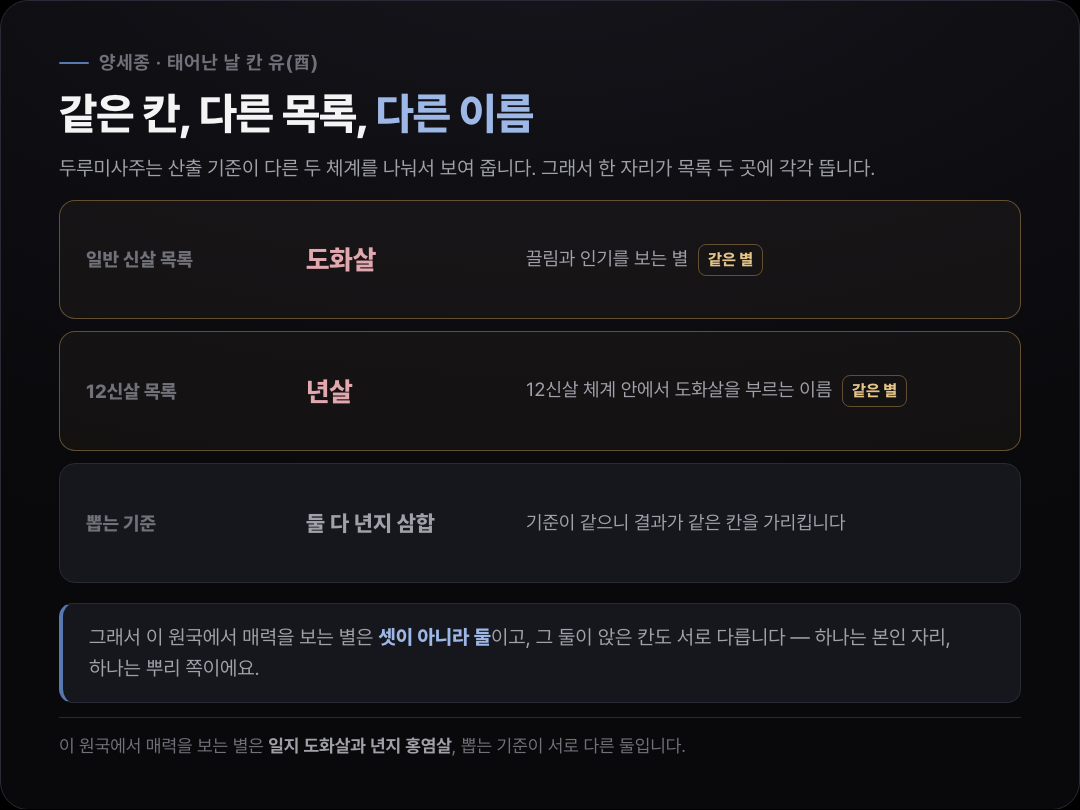
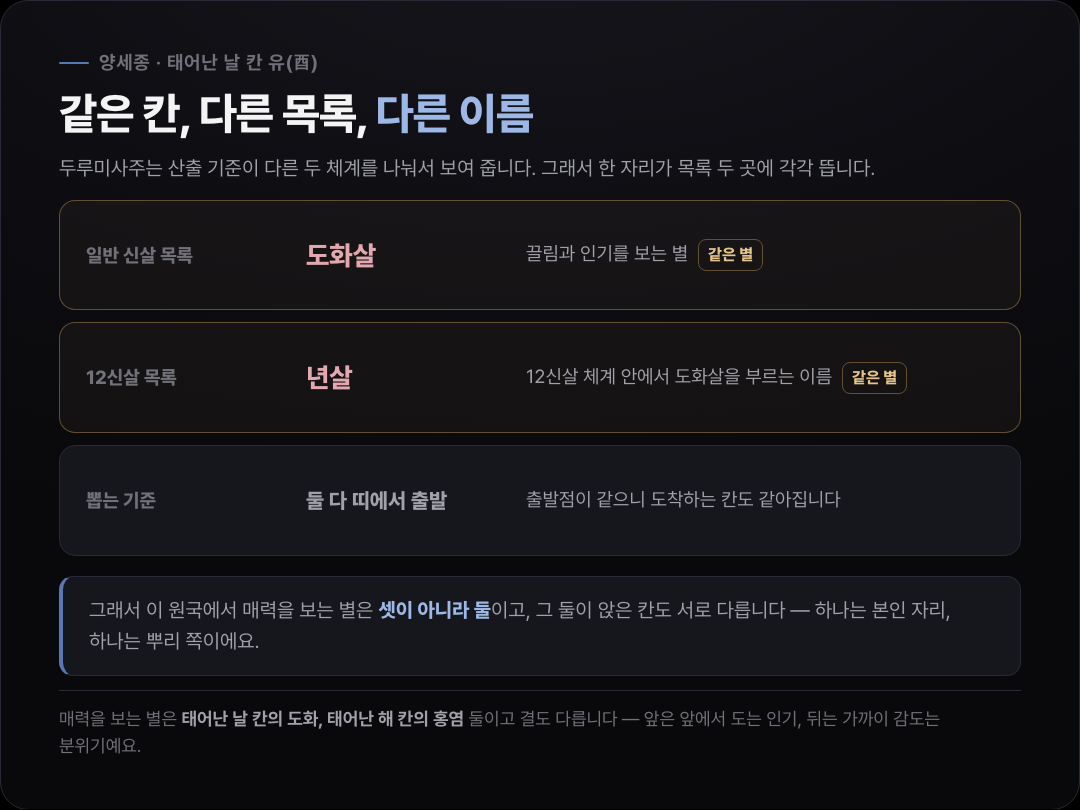
fix(stories): 3차 재검 반영 + 카드 동기화 검사기 신설
3차 판정: RED 3 · AMBER 2. **사실층은 이번에 전부 통과했다** — 5편 모두 엔진 대조
불일치 0, 사전 귀속 조작 0, 새 수치도 전부 재검산 통과(오히려 보수적). 남은 건
전부 구조·표현이다.

## 카드 동기화를 기계로 막았다 — 같은 사고가 세 번 났다

`scripts/card-sync-check.mts` 신설. 카드 HTML 문구를 뽑아 대응 글 데이터에 닻이
있는지 보고, 없으면 사람이 확인할 목록으로 띄운다. 자동 판정이 아니라 검토 목록이다.

세 번의 실측 사고: ①yuyoungwoo-2 가 본문 수정 후에도 "네 항목 중"을 유지 ②jangseong-sal-2
푸터가 걷어낸 논지를 그대로 구움 ③v-bts-2 부제가 본문에서 폐기한 "재능의 별"을 유지.
붙이자마자 ③을 포함해 실드리프트 3장을 잡았다.

## [상] 수정

- **유영우 — 축을 옮긴다면서 헤딩만 바꿨다.** intro 논제 문장이 여전히 옛 축("짚어 볼
  자리는 태어난 달 칸")을 로드맵으로 가리켰고, excerpt가 약속한 "둘을 같이 놓기"가
  본문에 없었다. intro를 새 축으로 다시 쓰고, 마무리에서 일지 장성살과 금 0을 **실제로
  겹쳐 읽는 문단**을 넣었다. 헤딩도 옛 축 잔재를 걷었다.
- **양세종 §4 가 v-bts 어휘로 수렴했다**("아예 없는 게 아니라"·"속에 접혀 있는"·"두
  글자가 아직 안 들어왔"). 2차 수정이 직접 만든 수렴이고 하필 이 글 차별점 절이었다.
  이 원국 고유 배치(개수판 vs 실물)로 다시 썼다.
- **뷔 FAQ1 이 양세종 쪽으로 더 수렴했다.** 3차 수정이 "자리"→"코드이고"로 바꿔
  양쪽을 같게 만들었다. 이 글만 다른 진입(위아래 조합 → 형상)으로 교체. intro 도
  목록 밖 형제 `gonghyojin` 과 겹쳐 다시 썼다.
- **뷔 카드 2장 미동기화** — 위 검사기가 잡은 것. 부제·note·desc 전부 본문에 맞춤.
- **육해살 fig2 caption 이 FAQ와 모순**("넓어야 두 칸" vs "상한이 세 칸"). 2차에서
  조건부 문장을 단정으로 바꾼 결과다. 조건 복원.

## [중] 수정

- 유영우: "헤딩"이라는 편집실 용어가 독자 문장에 노출(2차 신규) / 일지 12운성이
  `병`인데 자기 규칙("이름≠세기")을 간판 칸에는 적용 안 함 → 명시 / **12신살 산출
  원리 오진술** — "태어난 해와의 거리"가 아니라 "삼합 묶음 안의 몇 번째 칸"이다
  (년지 子와 申은 같은 묶음이라 배정이 같은데 거리는 다르다). 본문+fig2 동시 수정 /
  `related` 에 같은 임오·기묘 형제 추가.
- 양세종: 지장간 인과 압축 → "지지는 주인 글자 하나로만 센다"로 규칙을 제자리에 /
  "바깥의 요구" 미역추적 → 사전 어휘로 / 도화·홍염의 결 차이 평탄화 해소 /
  "끌림·끌림·통솔" 기둥 순서 교정.
[…]

diff --git a/lib/stories/data/yuyoungwoo.ts b/lib/stories/data/yuyoungwoo.ts
@@ -7,7 +7,7 @@ export const yuYoungwoo: Story = {
   excerpt:
     "1995년 6월 17일 기묘(己卯)일주. 본인 자리에 판을 지휘하는 별이 앉아 있는데, 정작 만들어 낸 것을 거두어 굳히는 오행은 겉에 한 자리도 없어요. 그 둘을 같이 놓고 읽어 봅니다.",
   intro:
-    "만담은 혼자 웃기는 일이 아닙니다. 둘이 주고받는 박자를 미리 다 짜 놓고, 무대 위에서는 그 판을 놓치지 않게 끌고 가야 하는 일이에요. 유영우는 메타코미디 소속 개그맨이고, 만담 콤비 유스데스크로 무대와 온라인 양쪽에서 활동하고 있습니다.\n\n판을 짜고 그 판을 지휘하는 일. 원국으로 옮겨 보면 이 대목이 꽤 또렷하게 나옵니다.\n\n1995년 6월 17일 양력생이고 일주가 **기묘(己卯)**예요. 위 칸에 [기토](/dict/cheongan/gi), 아래 칸에 [묘목](/dict/jiji/myo)이 섭니다. 태어난 시각은 알려진 적이 없어요. 그래서 이 글이 다루는 기둥은 셋입니다.\n\n짚어 볼 자리는 **태어난 달 칸**입니다. 이 원국에서 힘이 가장 강하게 잡히는 칸인데, 거기 붙은 12신살 이름이 하필 육해살이거든요.",
+    "만담은 혼자 웃기는 일이 아닙니다. 둘이 주고받는 박자를 미리 다 짜 놓고, 무대 위에서는 그 판을 놓치지 않게 끌고 가야 하는 일이에요. 유영우는 메타코미디 소속 개그맨이고, 만담 콤비 유스데스크로 무대와 온라인 양쪽에서 활동하고 있습니다.\n\n판을 짜고 그 판을 지휘하는 일. 원국으로 옮겨 보면 이 대목이 꽤 또렷하게 나옵니다.\n\n1995년 6월 17일 양력생이고 일주가 **기묘(己卯)**예요. 위 글자가 [기토](/dict/cheongan/gi), 아래 글자가 [묘목](/dict/jiji/myo)이에요. 출생 시각은 공개된 적이 없어 이 글이 펼치는 기둥은 셋입니다.\n\n짚어 볼 것은 두 가지예요. 본인 자리에 앉은 별 하나, 그리고 여섯 글자 어디에도 안 나온 오행 하나입니다.",
   sections: [
     {
       heading: "본인 자리에 통솔의 별이 앉아 있어요",
@@ -18,7 +18,7 @@ export const yuYoungwoo: Story = {
         },
         {
           kind: "p",
-          text: "장성살은 장수의 별이에요. 사전은 통솔·책임·중심을 상징하는 자리로 적고, 자기주장이 분명하며 판의 가운데 서는 것을 편해하는 결로 봅니다. 그게 태어난 날 칸, 그러니까 본인 자리에 앉아 있어요.",
+          text: "장성살은 장수의 별이에요. 사전은 권력·통솔력·책임감을 상징하는 자리로 적고, 자기주장이 분명하며 리더 자리를 선호하는 결로 봅니다. 그게 태어난 날 칸, 그러니까 본인 자리에 앉아 있어요.\n\n다만 같은 칸을 세기로 재면 얘기가 다릅니다. 열두 단계로 매기는 눈금에서 이 칸은 힘이 빠지는 쪽이에요. 이름이 세다고 칸까지 센 게 아니라는 뜻입니다.",
         },
         {
           kind: "p",
@@ -46,7 +46,7 @@ export const yuYoungwoo: Story = {
         },
         {
           kind: "p",
-          text: "그런데 이 조합은 나무가 흙을 딛고 선 게 아니라 **나무가 흙을 파고드는** 구조입니다. 기토 입장에서 묘목은 편관(偏官), 그러니까 책임과 압박, 자기 단련의 별이에요. 사전은 이 배치를 자기 단련이 몸에 밴 기질로 읽어요.",
+          text: "그런데 이 조합은 나무가 흙을 딛고 선 게 아니라 **나무가 흙을 파고드는** 구조입니다. 기토 입장에서 묘목은 편관(偏官)입니다. 사전이 책임·압박·자기 단련으로 묶는 별이에요. 사전은 이 배치를 자기 단련이 몸에 밴 기질로 읽어요.",
         },
         {
           kind: "p",
@@ -90,7 +90,7 @@ export const yuYoungwoo: Story = {
         {
           kind: "callout",
           tone: "warn",
-          text: "이름이 험하다고 그 칸을 약한 칸으로 읽으면 정반대가 됩니다. 12신살 이름은 그 자리가 태어난 해와 어떤 거리에 있는지를 가리키는 것이지 힘의 크기를 재는 눈금이 아니에요. 세기는 12운성이 따로 잽니다.",
+          text: "이름이 험하다고 그 칸을 약한 칸으로 읽으면 정반대가 됩니다. 12신살 이름은 내 띠가 속한 삼합 묶음 안에서 그 글자가 몇 번째 칸인지를 가리키는 것이지, 힘의 크기를 재는 눈금이 아니에요. 세기는 12운성이 따로 잽니다.",
         },
         {
           kind: "image",
@@ -101,11 +101,11 @@ export const yuYoungwoo: Story = {
       ],
     },
     {
-      heading: "받쳐 주는 손이 둘, 밀어내는 손이 넷",
+      heading: "쇠 자리가 통째로 비었습니다",
       blocks: [
         {
           kind: "p",
-          text: "이 원국의 강약은 신약 쪽으로 잡힙니다. 시각이 비어 판정이 도는 항목은 셋인데, 그중 확보한 것이 방금 본 태어난 달 한 곳이에요.",
+          text: "이 원국의 강약은 [신약](/dict/gangyak/sinyak) 쪽으로 잡힙니다. 시각이 비어 판정이 도는 항목은 셋인데, 그중 확보한 것이 방금 본 태어난 달 한 곳이에요.",
         },
         {
           kind: "p",
@@ -113,7 +113,7 @@ export const yuYoungwoo: Story = {
         },
         {
           kind: "p",
-          text: "기토에게 나무는 눌러 오는 쪽, 물은 다뤄야 할 쪽입니다. 여섯 중 넷이 그쪽이에요. 남은 둘 중 하나는 기토를 낳아 주는 불이고, 나머지 하나는 기토 자신입니다. 그러니 헤딩의 둘 가운데 하나는 본인이 스스로 세는 몫이에요.",
+          text: "기토에게 나무는 눌러 오는 쪽, 물은 다뤄야 할 쪽입니다. 여섯 중 넷이 그쪽이에요. 남은 둘 중 하나는 기토를 낳아 주는 불이고, 나머지 하나는 기토 자신입니다. 그러니 받쳐 주는 둘 가운데 하나는 본인이 스스로 세는 몫이에요.",
         },
         {
           kind: "p",
@@ -139,7 +139,7 @@ export const yuYoungwoo: Story = {
         },
         {
           kind: "p",
-          text: "그러니 세 칸의 이름을 한 줄로 놓으면 지살·육해살·장성살이 됩니다. 세 칸이 전부 다른 이름을 받았어요.",
+          text: "그러니 아래 칸 셋이 전부 다른 이름을 받았습니다.\n\n여기서 앞의 두 가지를 겹쳐 놓아 볼게요. 본인 자리에는 판을 지휘하는 별이 앉았는데, 지휘한 결과를 거두어 형태로 굳히는 오행은 겉에 없습니다. 짜고 끌고 가는 쪽은 갖췄고 마무리해 쟁여 두는 쪽이 표면에 안 보이는 배치예요. 만담처럼 그 자리에서 소모되는 일과는 결이 맞고, 쌓아 두는 일은 따로 품이 드는 구성입니다.",
         },
         {
           kind: "checklist",
@@ -154,7 +154,7 @@ export const yuYoungwoo: Story = {
         },
         {
           kind: "p",
-          text: "본인의 원국도 같은 방식으로 읽힙니다. 한 칸에 붙은 이름 하나가 그 칸의 전부를 말해 주지는 않아요.",
+          text: "본인의 원국도 같은 순서로 보시면 됩니다. 갖춘 쪽과 빠진 쪽을 따로 세지 말고 한 번에 겹쳐 놓아 보세요.",
         },
       ],
     },
@@ -166,15 +166,15 @@ export const yuYoungwoo: Story = {
           items: [
             {
               q: "유영우는 무슨 일주인가요?",
-              a: "기묘(己卯)일주입니다. 육십갑자로는 열여섯 번째 자리예요. 1995년 6월 17일 양력생이라 을해년 임오월 기묘일로 서고, 태어난 시각은 알려진 적이 없어 기둥 하나가 비어 있습니다. 위 칸은 논밭의 흙, 아래 칸은 새벽의 여린 나무라 흙 위에 풀이 돋은 그림으로 읽어요.",
+              a: "기묘(己卯)예요. 육십갑자로는 열여섯 번째 자리입니다. 1995년 6월 17일 양력생이라 을해년 임오월 기묘일로 서고, 태어난 시각은 알려진 적이 없어 기둥 하나가 비어 있습니다. 위 칸은 논밭의 흙, 아래 칸은 새벽의 여린 나무라 흙 위에 풀이 돋은 그림으로 읽어요.",
             },
             {
-              q: "육해살이 있으면 안 좋은 사주인가요?",
-              a: "그런 뜻이 아닙니다. 12신살은 띠를 기준점으로 삼아 네 칸에 이름을 하나씩 나눠 주는 체계예요. 그러니 어느 칸에든 이름은 붙습니다 — 그 이름이 육해살로 나오는 사람도 있고 아예 안 나오는 사람도 있어요. 유영우의 경우 그 이름이 붙은 칸이 오히려 12운성으로는 힘이 강한 자리이고 강약 판정에서 확보된 유일한 자리이기도 합니다. 이름과 세기를 같은 잣대로 보면 방향이 어긋나요.",
+              q: "달 칸에 육해살이 붙었다는데 걱정해야 하나요?",
+              a: "그렇게 보지 않습니다. 12신살은 띠를 기준점으로 삼아 네 칸에 이름을 하나씩 나눠 주는 체계예요. 그러니 어느 칸에든 이름은 붙습니다 — 그 이름이 육해살로 나오는 사람도 있고 아예 안 나오는 사람도 있어요. 유영우의 경우 그 이름이 붙은 칸이 오히려 12운성으로는 힘이 강한 자리이고 강약 판정에서 확보된 유일한 자리이기도 합니다. 이름과 세기를 같은 잣대로 보면 방향이 어긋나요.",
             },
             {
               q: "천덕귀인이 태어난 해 칸에 붙었다는 게 무슨 뜻인가요?",
-              a: "이 별은 태어난 달의 지지를 기준점으로 삼아 자리를 정합니다. 유영우는 오(午)월생이고, 오월에 성립하는 천덕 자리가 해(亥)예요. 그런데 태어난 해의 아래 글자가 마침 해(亥)라서 그 칸이 천덕 자리가 됩니다. 이름은 귀인인데 붙는 자리가 천간이 아니라 지지인 경우예요. 같은 덕(德) 자를 쓰는 월덕귀인은 천간에 나와야 작용이 또렷하다고 사전이 따로 단서를 답니다."
+              a: "이 별은 태어난 달의 지지를 기준점으로 삼아 자리를 정합니다. 유영우는 오(午)월생이고, 오월에 성립하는 천덕 자리가 해(亥)예요. 그런데 태어난 해의 아래 글자가 마침 해(亥)라서 그 칸이 천덕 자리가 됩니다. 이름은 귀인인데 붙는 자리가 천간이 아니라 지지인 경우예요. 이름이 비슷한 월덕귀인은 사정이 반대예요. 사전이 그쪽은 지지에서 찾는 별이 아니라고 못 박습니다."
             },
             {
               q: "쇠가 겉에 없다는 게 어떤 뜻인가요?",
@@ -215,5 +215,5 @@ export const yuYoungwoo: Story = {
   },
   publishedAt: "2026-08-27",
   updatedAt: "2026-08-27",
-  related: ["jangseong-sal", "yukhae-sal"],
+  related: ["jangseong-sal", "yukhae-sal", "yoonkyungho"],
 };

diff --git a/lib/stories/data/yangsejong.ts b/lib/stories/data/yangsejong.ts
@@ -22,7 +22,7 @@ export const yangSejong: Story = {
         },
         {
           kind: "p",
-          text: "강약 판정도 그대로 따라갑니다. 이 원국은 [태강](/dict/gangyak/taegang)으로 잡혀요. 네 항목 중 태어난 시각을 뺀 세 곳을 전부 확보했고, 일간을 밀어내는 쪽으로 잡히는 항목은 **하나도 없습니다.**",
+          text: "강약 판정도 그대로 따라갑니다. 이 원국은 [태강](/dict/gangyak/taegang)으로 잡혀요. 네 항목 중 태어난 시각을 뺀 세 곳을 전부 확보했고, 일간을 밀어내는 쪽으로 잡히는 항목이 **0개**예요.",
         },
         {
           kind: "table",
@@ -60,7 +60,7 @@ export const yangSejong: Story = {
         {
           kind: "callout",
           tone: "tip",
-          text: "인물 하나를 길게 붙들고 가는 직업과 어긋나지 않는 구조예요. 물론 글자가 사람을 설명하는 게 아니라, 지나온 이력 옆에 여섯 글자를 놓아 본 것뿐입니다.",
+          text: "인물 하나를 길게 붙들고 가는 직업과 어긋나지 않는 구조예요. 물론 글자가 사람을 설명하는 게 아니라, 지나온 자취 곁에 여섯 글자를 얹어 본 것뿐이에요.",
         },
       ],
     },
@@ -73,7 +73,7 @@ export const yangSejong: Story = {
         },
         {
           kind: "p",
-          text: "[도화살](/dict/sinsal/dohwa)과 [홍염살](/dict/sinsal/hongryeom) 둘 다 걸려요. 끌림을 보는 별이 두 개인 셈인데, 출발점이 서로 다릅니다. 도화는 띠에서 시작하고 홍염은 일간에서 시작해요. 출발점이 다르니 도착하는 칸도 갈립니다 — 도화가 태어난 날, 홍염이 태어난 해입니다.",
+          text: "[도화살](/dict/sinsal/dohwa)과 [홍염살](/dict/sinsal/hongryeom) 둘 다 걸려요. 끌림을 보는 별이 두 개인 셈인데, 출발점도 결도 다릅니다. 도화는 띠에서 시작하고 사람들 앞에서 도는 인기 쪽이에요. 홍염은 일간에서 시작하고 가까이에서 감도는 분위기 쪽입니다. 출발점이 다르니 도착하는 칸도 갈려요 — 홍염이 태어난 해, 도화가 태어난 날입니다.",
         },
         {
           kind: "p",
@@ -86,12 +86,12 @@ export const yangSejong: Story = {
         },
         {
           kind: "p",
-          text: "남은 한 칸, 태어난 달 쪽은 [장성살](/dict/sipisinsal/jangseongsal)입니다. 사전이 권력·통솔력·책임감으로 적는 별이에요. 아래 칸 셋만 놓고 보면 끌림·끌림·통솔로 갈립니다. 위 칸 쪽에 걸리는 별은 따로 있고, 그건 뒤에서 볼게요.\n\n이 장성살은 두 목록 **양쪽에 같은 이름 그대로** 뜹니다. 뽑는 기준이 둘 다 태어난 해의 지지라 결과가 겹치거든요. 이름까지 같아서 개수로 세기가 제일 쉬운 자리인데, 역시 한 별입니다. 12신살 쪽 태어난 해 칸에는 또 다른 이름인 [지살](/dict/sipisinsal/jisal)이 붙고요.",
+          text: "남은 한 칸, 태어난 달 쪽은 [장성살](/dict/sipisinsal/jangseongsal)입니다. 사전이 권력·통솔력·책임감으로 적는 별이에요. 아래 칸을 년·월·일 순으로 읽으면 끌림·통솔·끌림이 됩니다. 위 칸 쪽에 걸리는 별은 따로 있고, 그건 뒤에서 볼게요.\n\n이 장성살은 두 목록 **양쪽에 같은 이름 그대로** 뜹니다. 뽑는 기준이 둘 다 태어난 해의 지지라 결과가 겹치거든요. 이름까지 같아서 개수로 세기가 제일 쉬운 자리인데, 역시 한 별입니다. 12신살 쪽 태어난 해 칸에는 또 다른 이름인 [지살](/dict/sipisinsal/jisal)이 붙고요.",
         },
         {
           kind: "image",
           src: "/stories/figures/yangsejong-2.png",
-          alt: "태어난 날 칸의 유금 한 자리가 일반 신살에서는 도화살로, 12신살에서는 년살로 각각 다르게 호명되는 것을 두 목록으로 나눠 보여 주는 카드",
+          alt: "태어난 날 칸의 유금 한 자리에 일반 신살의 도화살과 12신살의 년살이라는 두 이름이 각각 붙는 것을 산출 기준별로 갈라 정리한 카드",
           caption: "같은 칸, 다른 목록, 다른 이름. 별이 둘로 늘어난 게 아닙니다.",
         },
       ],
@@ -105,15 +105,15 @@ export const yangSejong: Story = {
         },
         {
           kind: "p",
-          text: "명리에서 일간을 눌러 세우는 자리는 규범·책임·바깥의 요구를 상징합니다. 겉으로 드러난 여섯 글자에는 그 흙이 한 자리도 없어요.\n\n그런데 아래 칸 속을 열어 보면 얘기가 달라집니다. 지지에는 겉 글자 말고도 **속에 접혀 있는 천간**이 있는데, 태어난 해 칸 신(申) 안에 경금·임수와 함께 **무토(戊)**가 들어 있어요. 계수에게 무토는 바로 그 눌러 세우는 자리입니다.",
+          text: "명리에서 일간을 눌러 세우는 자리는 질서와 명예, 책임감 쪽을 상징합니다. 겉으로 드러난 여섯 글자에는 그 흙이 한 자리도 없어요.\n\n그런데 아래 칸 속을 열어 보면 얘기가 달라집니다. 지지에는 겉 글자 말고도 **속에 접혀 있는 천간**이 있는데, 태어난 해 칸 신(申) 안에 경금·임수와 함께 **무토(戊)**가 들어 있어요. 계수에게 무토는 바로 그 눌러 세우는 자리입니다.",
         },
         {
           kind: "p",
-          text: "그러니 **아예 없는 게 아니라 겉에 안 나온** 구조예요. 다만 무토는 신(申) 속에서도 가장 옅게 든 글자라, 오행 개수를 셀 때는 흙 0으로 잡힙니다. 두루미사주가 보태면 좋을 오행으로 억부 쪽에서 흙을, 겨울생이라 조후 쪽에서 불을 지목하는 것도 그래서예요.\n\n속에 있다는 것과 쓰이고 있다는 건 다른 얘기입니다. 이 원국에서 눌러 세우는 자리는 있긴 한데 아주 얕게 있어요.",
+          text: "그런데 오행 개수는 지지를 그 지지의 **주인 글자 하나로만** 셉니다. 무토는 신(申)의 주인이 아니라 셋 중 가장 옅게 든 글자라, 개수판에서는 흙이 0으로 잡혀요.\n\n그래서 이 원국은 눌러 세우는 자리가 **장부에는 안 잡히는데 실물로는 있는** 상태입니다. 두루미사주가 보태면 좋을 오행으로 흙을 지목하는 것도 개수판을 보고 하는 판단이고요. 겨울생이라 온도를 올리는 쪽으로 불도 함께 지목합니다.",
         },
         {
           kind: "p",
-          text: "덧붙이면 태어난 시각 쪽 두 글자가 아직 안 들어왔어요. 거기서 나무나 불이나 흙이 겉으로 나오면 이 그림은 통째로 다시 그려집니다.",
+          text: "물론 시각 칸이 채워지면 얘기가 달라져요. 거기서 나무나 불이나 흙이 주인 글자로 나오면 개수판 자체가 바뀝니다.",
         },
       ],
     },
@@ -153,7 +153,7 @@ export const yangSejong: Story = {
           items: [
             {
               q: "양세종은 무슨 일주인가요?",
-              a: "계유(癸酉)일주입니다. 임신년 임자월 계유일 — 1992년 12월 23일 양력생이에요. 태어난 시각은 알려진 게 없어 기둥 하나가 통째로 빕니다. 육십갑자로는 열 번째 코드이고, 맑은 샘물이 벼려 놓은 쇠 위를 흐르는 그림에 빗대는 조합입니다.",
+              a: "계유(癸酉)일주입니다. 임신년 임자월 계유일 — 1992년 12월 23일 양력생입니다. 출생 시각이 안 알려져 기둥 하나가 통째로 비어요. 육십갑자로는 열 번째 자리이고, 맑은 샘물이 벼려 놓은 쇠 위를 흐르는 그림에 빗대는 조합입니다.",
             },
             {
               q: "태강이면 좋은 건가요?",
@@ -161,7 +161,7 @@ export const yangSejong: Story = {
             },
             {
               q: "도화살과 년살이 둘 다 있다는 건가요?",
-              a: "하나입니다. 사전은 12신살의 년살과 일반 신살의 도화살을 같은 별로 적어요. 두 목록 모두 띠를 출발점으로 삼으니 도착하는 칸이 같아집니다. 두루미사주가 두 체계를 나눠 보여 주다 보니 목록 두 곳에 각각 뜨는 것뿐이에요. 두 줄을 더해서 세면 실제보다 많아 보입니다.",
+              a: "하나입니다. 사전은 12신살의 년살과 일반 신살의 도화살을 같은 별로 적어요. 두 목록 모두 띠를 출발점으로 삼으니 도착하는 칸이 같아집니다. 두루미사주가 산출 기준별로 갈라 보여 주다 보니 목록 두 곳에 각각 뜨는 것뿐이에요. 두 줄을 더해서 세면 실제보다 많아 보입니다.",
             },
             {
               q: "나무·불·흙이 없으면 그 기운이 없는 사람인가요?",

diff --git a/lib/stories/data/v-bts.ts b/lib/stories/data/v-bts.ts
@@ -7,7 +7,7 @@ export const vBts: Story = {
   excerpt:
     "1995년 12월 30일 을미(乙未)일주. 태어난 달 칸 하나에 매력의 별과 귀인의 별이 함께 앉고, 태어난 날 칸에는 안으로 깊어지는 별과 험한 이름이 겹칩니다. 겹친 칸을 어떻게 읽는지가 이 원국의 관건이에요.",
   intro:
-    "사주를 보다 보면 유난히 표시가 몰리는 칸이 나옵니다. 그 칸이 좋은 칸인지 나쁜 칸인지 묻고 싶어지는데, 실제로는 그 질문에 답이 잘 안 나와요.\n\n방탄소년단의 뷔가 딱 그런 원국입니다. 1995년 12월 30일 양력생이고 일주는 **을미(乙未)**예요. 위 칸에 [을목](/dict/cheongan/eul), 아래 칸에 [미토](/dict/jiji/mi)가 섭니다. 시각 쪽은 공개된 적이 없어서, 마지막 기둥은 비워 놓고 읽습니다.\n\n여기서 먼저 갈라 둘 게 있어요. 12신살은 **어느 칸에든 이름을 하나씩 줍니다.** 사전이 이 체계를 두고 어느 사주든 열두 지지 모두에 별이 부여된다고 적는 대로예요. 그러니 몰린다는 건 12신살 쪽 얘기가 아니라, 별마다 조건이 다른 **일반 신살 쪽에서 생기는 일**입니다.\n\n뷔의 원국에서는 그 몰림이 두 칸에 걸려요. 태어난 달 칸과 태어난 날 칸입니다. 한 칸에 이름이 여럿 앉으면 그 칸을 좋다 나쁘다로 접기가 어려워지고, 어느 이름이 어느 기준에서 나온 건지부터 갈라야 합니다.",
+    "사주를 보다 보면 유난히 표시가 몰리는 칸이 나옵니다. 그 칸이 좋은 칸인지 나쁜 칸인지 묻고 싶어지는데, 실제로는 그 질문에 답이 잘 안 나와요.\n\n방탄소년단의 뷔가 딱 그런 원국입니다. 1995년 12월 30일생, 일주는 **을미(乙未)** — [을목](/dict/cheongan/eul)이 위에 서고 [미토](/dict/jiji/mi)가 아래를 받칩니다. 출생 시각은 알려진 게 없어 마지막 기둥은 비워 두고 읽어요.\n\n여기서 먼저 갈라 둘 게 있어요. 12신살은 **어느 칸에든 이름을 하나씩 줍니다.** 사전이 이 체계를 두고 어느 사주든 열두 지지 모두에 별이 부여된다고 적는 대로예요. 그러니 몰린다는 건 12신살 쪽 얘기가 아니라, 별마다 조건이 다른 **일반 신살 쪽에서 생기는 일**입니다.\n\n뷔의 원국에서는 그 몰림이 두 칸에 걸려요. 태어난 달 칸과 태어난 날 칸입니다. 한 칸에 이름이 여럿 앉으면 그 칸을 좋다 나쁘다로 접기가 어려워지고, 어느 이름이 어느 기준에서 나온 건지부터 갈라야 합니다.",
   sections: [
     {
       heading: "달 칸 하나에 매력의 별과 귀인의 별이 같이 앉아요",
@@ -29,7 +29,7 @@ export const vBts: Story = {
         },
         {
           kind: "p",
-          text: "매력을 보는 별과 도움을 받는 별이 한 칸에 겹쳤어요. [천을귀인](/dict/sinsal/cheonyl-gwiin)은 조견표부터 다릅니다. 열 개 일간마다 정해진 지지가 따로 있고, 을목이면 자(子)와 신(申) 두 글자예요. 띠는 아예 안 봅니다. 그러니 두 별이 같은 칸에 앉은 건 서로 맞춘 게 아니라 우연이에요.",
+          text: "매력을 보는 별과 도움을 받는 별이 한 칸에 겹쳤어요. [천을귀인](/dict/sinsal/cheonyl-gwiin)은 조견표부터 다릅니다. 일간을 몇 갈래로 묶어 갈래마다 지지 두 글자를 배정하는데, 을목이 드는 갈래는 자(子)와 신(申)이에요. 띠는 아예 안 봅니다. 그러니 두 별이 같은 칸에 앉은 건 서로 맞춘 게 아니라 우연이에요.",
         },
         {
           kind: "callout",
@@ -45,7 +45,7 @@ export const vBts: Story = {
       ],
     },
     {
-      heading: "을미 — 들판에서 풀을 뜯는 양의 자리",
+      heading: "화초와 마른 흙이 위아래로 만나면",
       blocks: [
         {
           kind: "p",
@@ -75,7 +75,7 @@ export const vBts: Story = {
         },
         {
           kind: "p",
-          text: "이 칸은 [화개살](/dict/sinsal/hwagae)로 잡힙니다. 그런데 12신살 목록을 봐도 같은 이름이 또 있어요. 화개는 어느 목록에서든 띠를 출발점으로 삼는 별이라 두 계산이 같은 답에 도착하거든요. 달 칸의 도화가 그랬던 것과 같은 사정입니다.",
+          text: "이 칸은 [화개살](/dict/sinsal/hwagae)로 잡힙니다. 그런데 12신살 목록을 봐도 같은 이름이 또 있어요. 두 계산 다 띠에서 출발하니 뷔의 경우 같은 칸을 가리켰습니다. 다만 늘 겹치지는 않아요 — 일반 신살 쪽 계산은 띠 글자가 놓인 칸을 건너뛰기 때문에, 그 자리에만 있는 사람은 12신살 쪽에만 뜹니다.",
         },
         {
           kind: "p",
@@ -110,7 +110,7 @@ export const vBts: Story = {
         },
         {
           kind: "p",
-          text: "강약은 [중화신강](/dict/gangyak/junghwa-singang)입니다. 강약은 네 항목으로 재는데 시각이 없으면 그중 하나는 계산이 아예 안 돌아요. 남은 셋 가운데 달과 날 두 곳을 확보한 상태입니다. 한쪽으로 크게 기울지 않은, 가운데에 가까운 자리예요.",
+          text: "강약은 [중화신강](/dict/gangyak/junghwa-singang)입니다. 강약을 재는 항목은 넷인데, 시각이 없으면 그중 하나가 아예 돌지 않습니다. 남은 셋 가운데 달과 날 두 곳을 확보한 상태입니다. 어느 쪽으로도 크게 쏠리지 않은 지점입니다.",
         },
       ],
     },
@@ -135,7 +135,7 @@ export const vBts: Story = {
         },
         {
           kind: "p",
-          text: "이 원국이 그 예입니다. 두 칸에 표시가 몰려 있는데, 셋으로 보이던 이름이 갈라 보면 둘이었어요. 본인의 원국도 같은 순서로 읽으시면 개수가 정확해집니다.",
+          text: "이 원국이 그 예입니다. 두 칸에 표시가 몰려 있는데, 셋으로 보이던 이름이 갈라 보면 둘이었어요. 본인의 원국도 이 순서로 보시면 개수가 어긋나지 않아요.",
         },
       ],
     },
@@ -147,7 +147,7 @@ export const vBts: Story = {
           items: [
             {
               q: "뷔는 무슨 일주인가요?",
-              a: "을미(乙未)일주입니다. 태어난 날의 두 글자가 을목과 미토라서요. 을해년 무자월 을미일로 서고, 시각은 공개된 적이 없어 기둥 하나가 빕니다. 육십갑자 서른두 번째 코드이고, 들판에서 풀을 뜯는 양에 빗대는 조합이에요. 백호가 걸리는 일곱 조합에도 들어갑니다.",
+              a: "을미(乙未)입니다. 부드러운 화초와 한여름의 마른 흙이 위아래로 만난 조합이라, 명리는 들판에서 풀을 뜯는 양에 빗대요. 원국은 을해년 무자월 을미일로 서고 시각 칸은 비어 있습니다. 백호가 걸리는 일곱 조합에 이 을미도 들어갑니다.",
             },
             {
               q: "천을귀인이 있으면 뭐가 좋은가요?",

diff --git a/lib/stories/data/yukhae-sal.ts b/lib/stories/data/yukhae-sal.ts
@@ -5,7 +5,7 @@ export const yukhaeSal: Story = {
   category: "saju",
   title: "육해살, 넷 중 셋은 아예 없습니다",
   excerpt:
-    "여섯 가지 해로움이라는 이름 때문에 놀라시는 분이 많아요. 그런데 네 칸에 지지를 하나씩 다 대입해 보면 넷 중 셋 꼴로 육해살이 안 잡혀요. 게다가 육해살로 잡힌 그 글자는 어떤 띠에게는 장성살 자리예요.",
+    "여섯 가지 해로움이라는 이름 때문에 놀라시는 분이 많아요. 그런데 이 별은 대부분의 사주에 아예 안 걸립니다. 게다가 육해살로 잡힌 그 글자는 어떤 띠에게는 장성살 자리예요.",
   intro:
     "쥐띠인 지인 한 분이 사주를 보고 와서 며칠을 뒤척였다고 합니다. 토끼 글자 자리에 육해살이 걸렸다는 얘기를 들었는데, 그 이름을 검색해 보니 여섯 가지 해로움이라고 나오더래요. 질병이라는 단어도 같이 보였고요.\n\n그분이 저한테 물어본 건 딱 하나였습니다. \"제 사주에 나쁜 글자가 박혀 있는 건가요?\"\n\n답부터 드리면 그 토끼 글자는 나쁜 글자가 아닙니다. 같은 토끼 글자가 **돼지띠·토끼띠·양띠에게는 장성살**이거든요. 통솔과 중심을 상징하는, 12신살 안에서 가장 좋게 보는 그 별이요.\n\n같은 글자가 누구에게는 육해살이고 누구에게는 장성살입니다. [육해살](/dict/sipisinsal/yukhaesal)이라는 이름을 어떻게 읽어야 하는지, 여기서부터 시작하는 게 정확해요.",
   sections: [
@@ -62,7 +62,7 @@ export const yukhaeSal: Story = {
           kind: "image",
           src: "/stories/figures/yukhae-sal-1.png",
           alt: "네 삼합 묶음의 육해살 자리 묘·오·유·자를 가로로 늘어놓고, 각 자리가 다음 묶음에서 장성살로 바뀌며 넘어가는 것을 화살표로 이은 카드",
-          caption: "네 묶음이 서로에게 자리를 넘기며 한 바퀴 돕니다. 자기 육해살을 자기 장성살로 쓰는 묶음은 없어요.",
+          caption: "앞의 쥐띠 지인이 걸린 토끼 글자는 이 그림에서 맨 왼쪽 칸이에요.",
         },
         {
           kind: "p",
@@ -88,7 +88,7 @@ export const yukhaeSal: Story = {
         {
           kind: "callout",
           tone: "tip",
-          text: "사전은 육해살이 충을 받으면 갑작스러운 쪽으로, 합을 만나면 만성적인 피로·잔병 쪽으로 풀리는 경향이 있다고 적어요. 같은 별이라도 옆 글자와의 관계가 모양을 바꿉니다.",
+          text: "사전은 이 별이 충을 만나면 갑작스러운 쪽으로, 합을 만나면 오래 끄는 피로·잔병 쪽으로 나타난다고 적어요. 같은 별이라도 옆 글자와의 관계가 모양을 바꿉니다.",
         },
       ],
     },
@@ -118,7 +118,7 @@ export const yukhaeSal: Story = {
           kind: "image",
           src: "/stories/figures/yukhae-sal-2.png",
           alt: "태어난 해·달·날·시각 네 칸을 나란히 놓고, 해 칸에는 육해살이 올 수 없음·달 칸은 일터 쪽·날 칸은 본인 몸 쪽·시각 칸은 판정 보류로 각각 표시한 카드",
-          caption: "그래서 육해살을 실제로 만나는 자리는 넓어야 두 칸입니다.",
+          caption: "시각까지 알면 달·날·시각 세 칸, 시각을 모르면 두 칸이 판정 대상입니다.",
         },
       ],
     },

diff --git a/lib/stories/data/jangseong-sal.ts b/lib/stories/data/jangseong-sal.ts
@@ -135,7 +135,7 @@ export const jangseongSal: Story = {
       ],
     },
     {
-      heading: "결과 화면에 한 번만 뜨는 사람이 절반이 넘어요",
+      heading: "화면에 한 번만 뜨기도 합니다",
       blocks: [
         {
           kind: "p",
@@ -143,7 +143,7 @@ export const jangseongSal: Story = {
         },
         {
           kind: "p",
-          text: "장성살은 두 목록 양쪽에 다 있는 이름이에요. 그래서 조건이 맞으면 결과 화면에서 두 번 보입니다.\n\n**그런데 그 조건이 좀 까다롭습니다.** 일반 신살 쪽 계산은 태어난 해 칸을 탐색에서 빼거든요. 그래서 장성살 자리 글자가 **달·날·시각 중 어딘가에 있어야** 그쪽에도 이름이 올라옵니다.",
+          text: "장성살은 두 목록 양쪽에 다 있는 이름이에요. 그래서 조건이 맞으면 결과 화면에서 두 번 보입니다. 그런데 **장성살이 잡힌 사람 중 절반쯤은 한 번만 봅니다.**\n\n**그런데 그 조건이 좀 까다롭습니다.** 일반 신살 쪽 계산은 태어난 해 칸을 탐색에서 빼거든요. 그래서 장성살 자리 글자가 **달·날·시각 중 어딘가에 있어야** 그쪽에도 이름이 올라옵니다.",
         },
         {
           kind: "callout",
